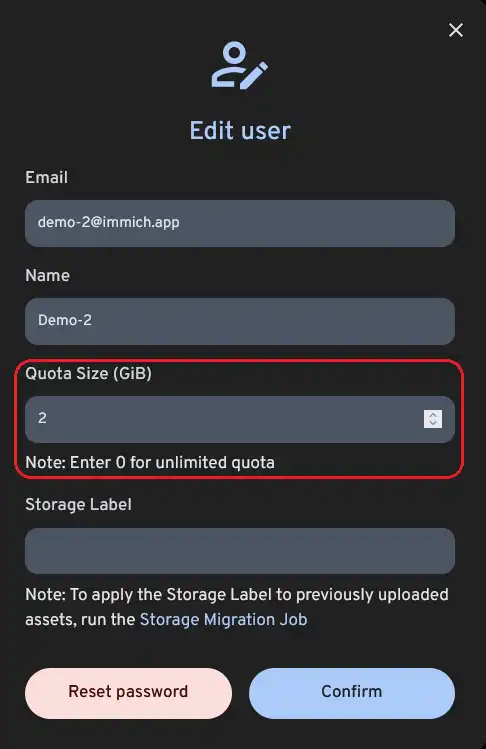
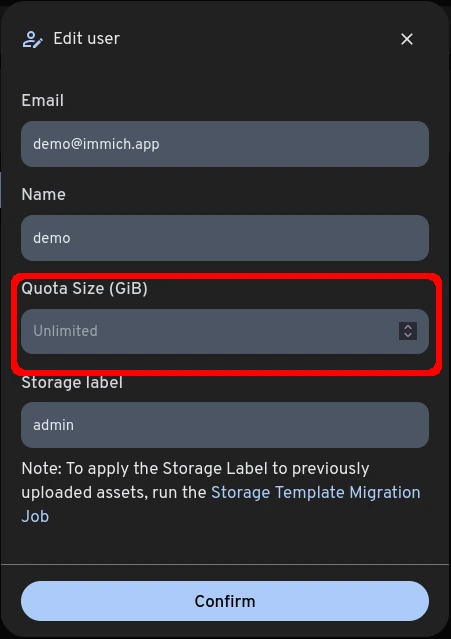
feat: allow accounts with a quota of 0 GiB (#17413)
* Allow 0GiB quotas in user create/edit form, remove unused translations

* Make requireQuota check for null or 0

* Add unlimited quota change to the docs

* Fix user dto formatting

* Fix formating edit-user-form

* Regenerate open-api files

* Revert unnecessary i18n file changes

* Re-add newline en.json

* Resolve linting issues

* Fix formatting edit-user-form

* Re-add manifest

diff --git a/web/src/lib/components/forms/edit-user-form.svelte b/web/src/lib/components/forms/edit-user-form.svelte
@@ -28,7 +28,7 @@
     onEditSuccess,
   }: Props = $props();
 
-  let quotaSize = $state(user.quotaSizeInBytes ? convertFromBytes(user.quotaSizeInBytes, ByteUnit.GiB) : null);
+  let quotaSize = $state(user.quotaSizeInBytes === null ? null : convertFromBytes(user.quotaSizeInBytes, ByteUnit.GiB));
 
   const previousQutoa = user.quotaSizeInBytes;
 
@@ -48,7 +48,7 @@
           email,
           name,
           storageLabel: storageLabel || '',
-          quotaSizeInBytes: quotaSize ? convertToBytes(Number(quotaSize), ByteUnit.GiB) : null,
+          quotaSizeInBytes: quotaSize === null ? null : convertToBytes(Number(quotaSize), ByteUnit.GiB),
         },
       });
 
@@ -126,8 +126,15 @@
           <p class="text-red-400 text-sm">{$t('errors.quota_higher_than_disk_size')}</p>
         {/if}</label
       >
-      <input class="immich-form-input" id="quotaSize" name="quotaSize" type="number" min="0" bind:value={quotaSize} />
-      <p>{$t('admin.note_unlimited_quota')}</p>
+      <input
+        class="immich-form-input"
+        id="quotaSize"
+        name="quotaSize"
+        placeholder={$t('unlimited')}
+        type="number"
+        min="0"
+        bind:value={quotaSize}
+      />
     </div>
 
     <div class="my-4 flex flex-col gap-2">

diff --git a/server/src/dtos/user.dto.ts b/server/src/dtos/user.dto.ts
@@ -1,6 +1,6 @@
 import { ApiProperty } from '@nestjs/swagger';
 import { Transform } from 'class-transformer';
-import { IsBoolean, IsEmail, IsNotEmpty, IsNumber, IsPositive, IsString } from 'class-validator';
+import { IsBoolean, IsEmail, IsNotEmpty, IsNumber, IsString, Min } from 'class-validator';
 import { User, UserAdmin } from 'src/database';
 import { UserMetadataEntity, UserMetadataItem } from 'src/entities/user-metadata.entity';
 import { UserEntity } from 'src/entities/user.entity';
@@ -77,7 +77,7 @@ export class UserAdminCreateDto {
 
   @Optional({ nullable: true })
   @IsNumber()
-  @IsPositive()
+  @Min(0)
   @ApiProperty({ type: 'integer', format: 'int64' })
   quotaSizeInBytes?: number | null;
 
@@ -115,7 +115,7 @@ export class UserAdminUpdateDto {
 
   @Optional({ nullable: true })
   @IsNumber()
-  @IsPositive()
+  @Min(0)
   @ApiProperty({ type: 'integer', format: 'int64' })
   quotaSizeInBytes?: number | null;
 }

diff --git a/web/src/lib/components/forms/create-user-form.svelte b/web/src/lib/components/forms/create-user-form.svelte
@@ -30,7 +30,7 @@
   let quotaSize: string | undefined = $state();
   let isCreatingUser = $state(false);
 
-  let quotaSizeInBytes = $derived(quotaSize ? convertToBytes(Number(quotaSize), ByteUnit.GiB) : null);
+  let quotaSizeInBytes = $derived(quotaSize === null ? null : convertToBytes(Number(quotaSize), ByteUnit.GiB));
   let quotaSizeWarning = $derived(
     quotaSizeInBytes && userInteraction.serverInfo && quotaSizeInBytes > userInteraction.serverInfo.diskSizeRaw,
   );
@@ -113,7 +113,7 @@
       </Field>
 
       <Field label={$t('admin.quota_size_gib')}>
-        <Input bind:value={quotaSize} type="number" min="0" />
+        <Input bind:value={quotaSize} type="number" placeholder={$t('unlimited')} min="0" />
         {#if quotaSizeWarning}
           <HelperText color="danger">{$t('errors.quota_higher_than_disk_size')}</HelperText>
         {/if}

diff --git a/web/src/routes/admin/user-management/+page.svelte b/web/src/routes/admin/user-management/+page.svelte
@@ -209,7 +209,7 @@
                 <td class="hidden sm:block w-3/12 text-ellipsis break-all px-2 text-sm">{immichUser.name}</td>
                 <td class="hidden xl:block w-3/12 2xl:w-2/12 text-ellipsis break-all px-2 text-sm">
                   <div class="container mx-auto flex flex-wrap justify-center">
-                    {#if immichUser.quotaSizeInBytes && immichUser.quotaSizeInBytes > 0}
+                    {#if immichUser.quotaSizeInBytes !== null && immichUser.quotaSizeInBytes >= 0}
                       {getByteUnitString(immichUser.quotaSizeInBytes, $locale)}
                     {:else}
                       <Icon path={mdiInfinity} size="16" />

diff --git a/server/src/services/asset-media.service.ts b/server/src/services/asset-media.service.ts
@@ -435,7 +435,7 @@ export class AssetMediaService extends BaseService {
   }
 
   private requireQuota(auth: AuthDto, size: number) {
-    if (auth.user.quotaSizeInBytes && auth.user.quotaSizeInBytes < auth.user.quotaUsageInBytes + size) {
+    if (auth.user.quotaSizeInBytes !== null && auth.user.quotaSizeInBytes < auth.user.quotaUsageInBytes + size) {
       throw new BadRequestException('Quota has been exceeded!');
     }
   }

diff --git a/mobile/openapi/lib/model/user_admin_update_dto.dart b/mobile/openapi/lib/model/user_admin_update_dto.dart
@@ -45,7 +45,7 @@ class UserAdminUpdateDto {
   ///
   String? password;
 
-  /// Minimum value: 1
+  /// Minimum value: 0
   int? quotaSizeInBytes;
 
   ///

diff --git a/mobile/openapi/lib/model/user_admin_create_dto.dart b/mobile/openapi/lib/model/user_admin_create_dto.dart
@@ -36,7 +36,7 @@ class UserAdminCreateDto {
 
   String password;
 
-  /// Minimum value: 1
+  /// Minimum value: 0
   int? quotaSizeInBytes;
 
   ///
